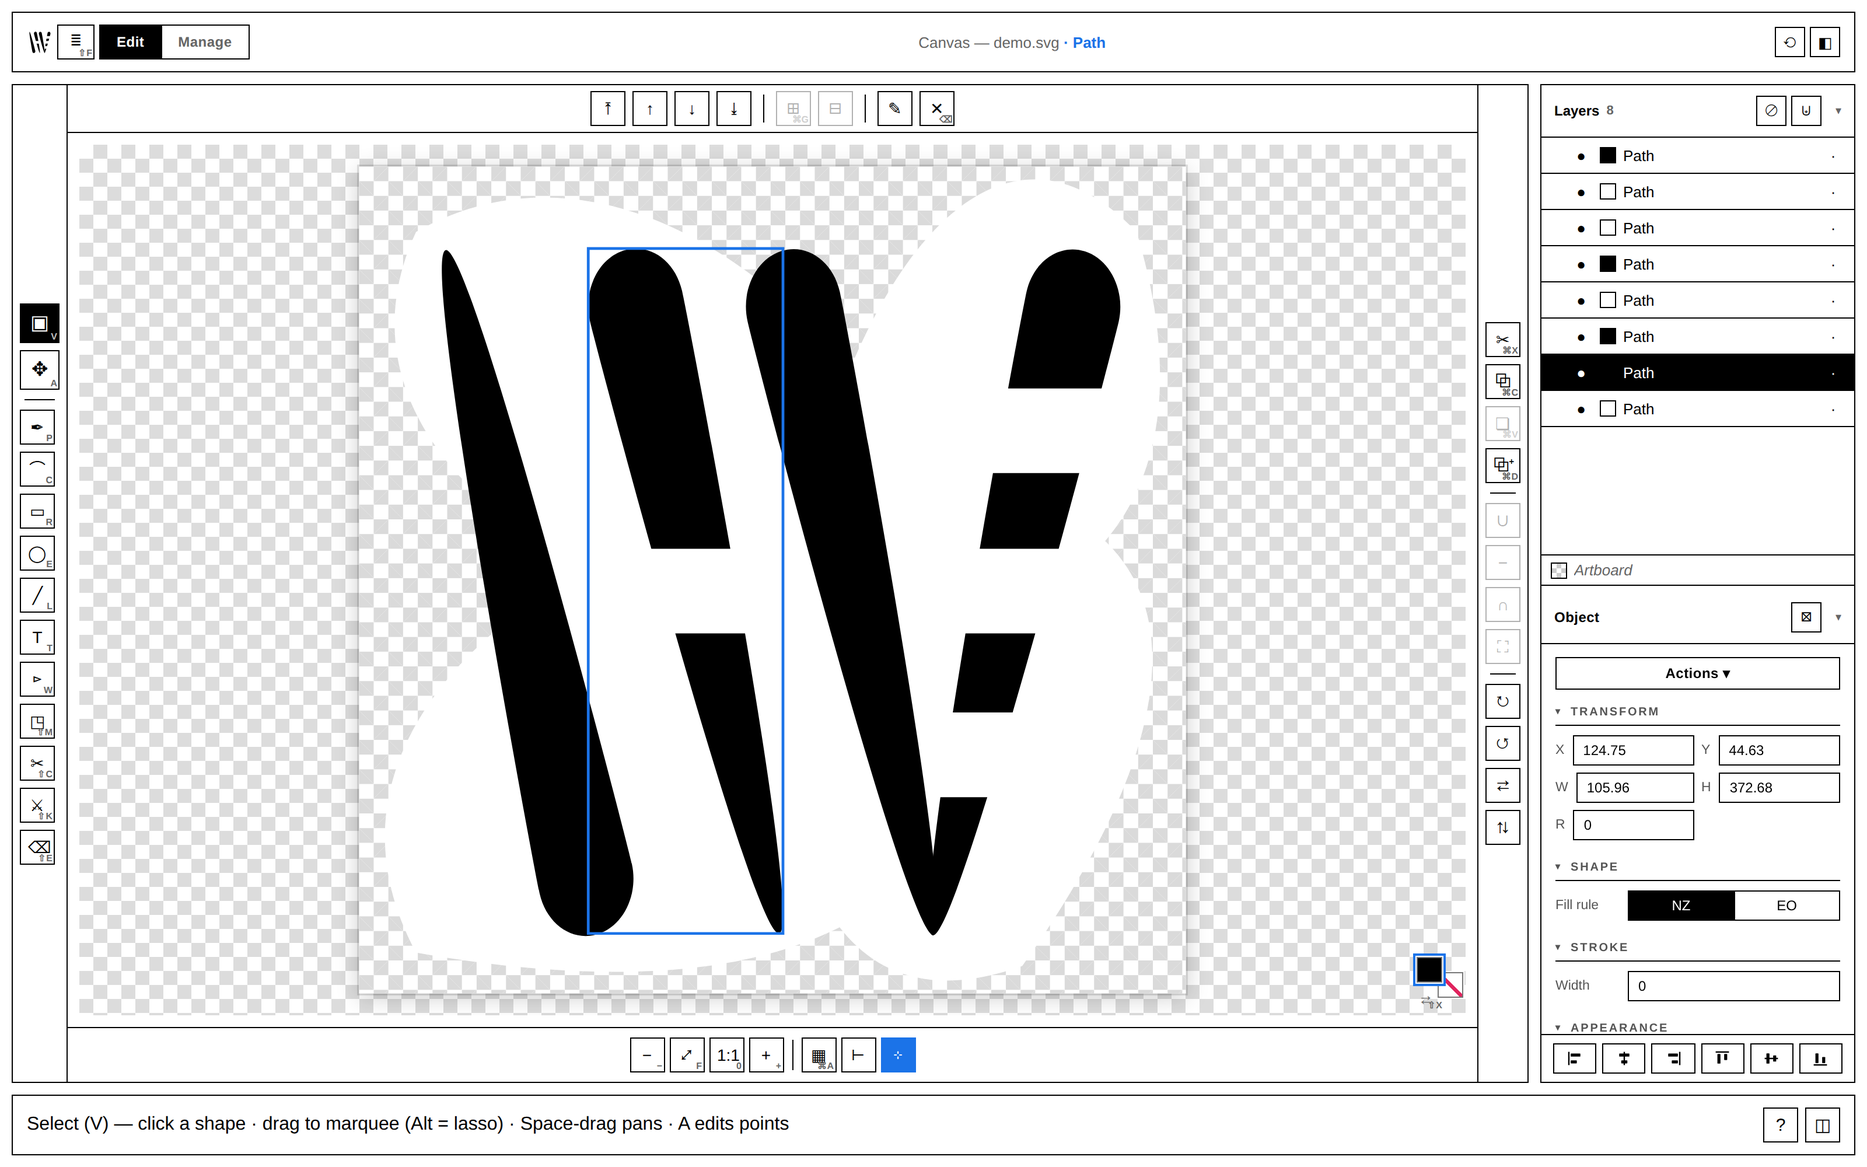
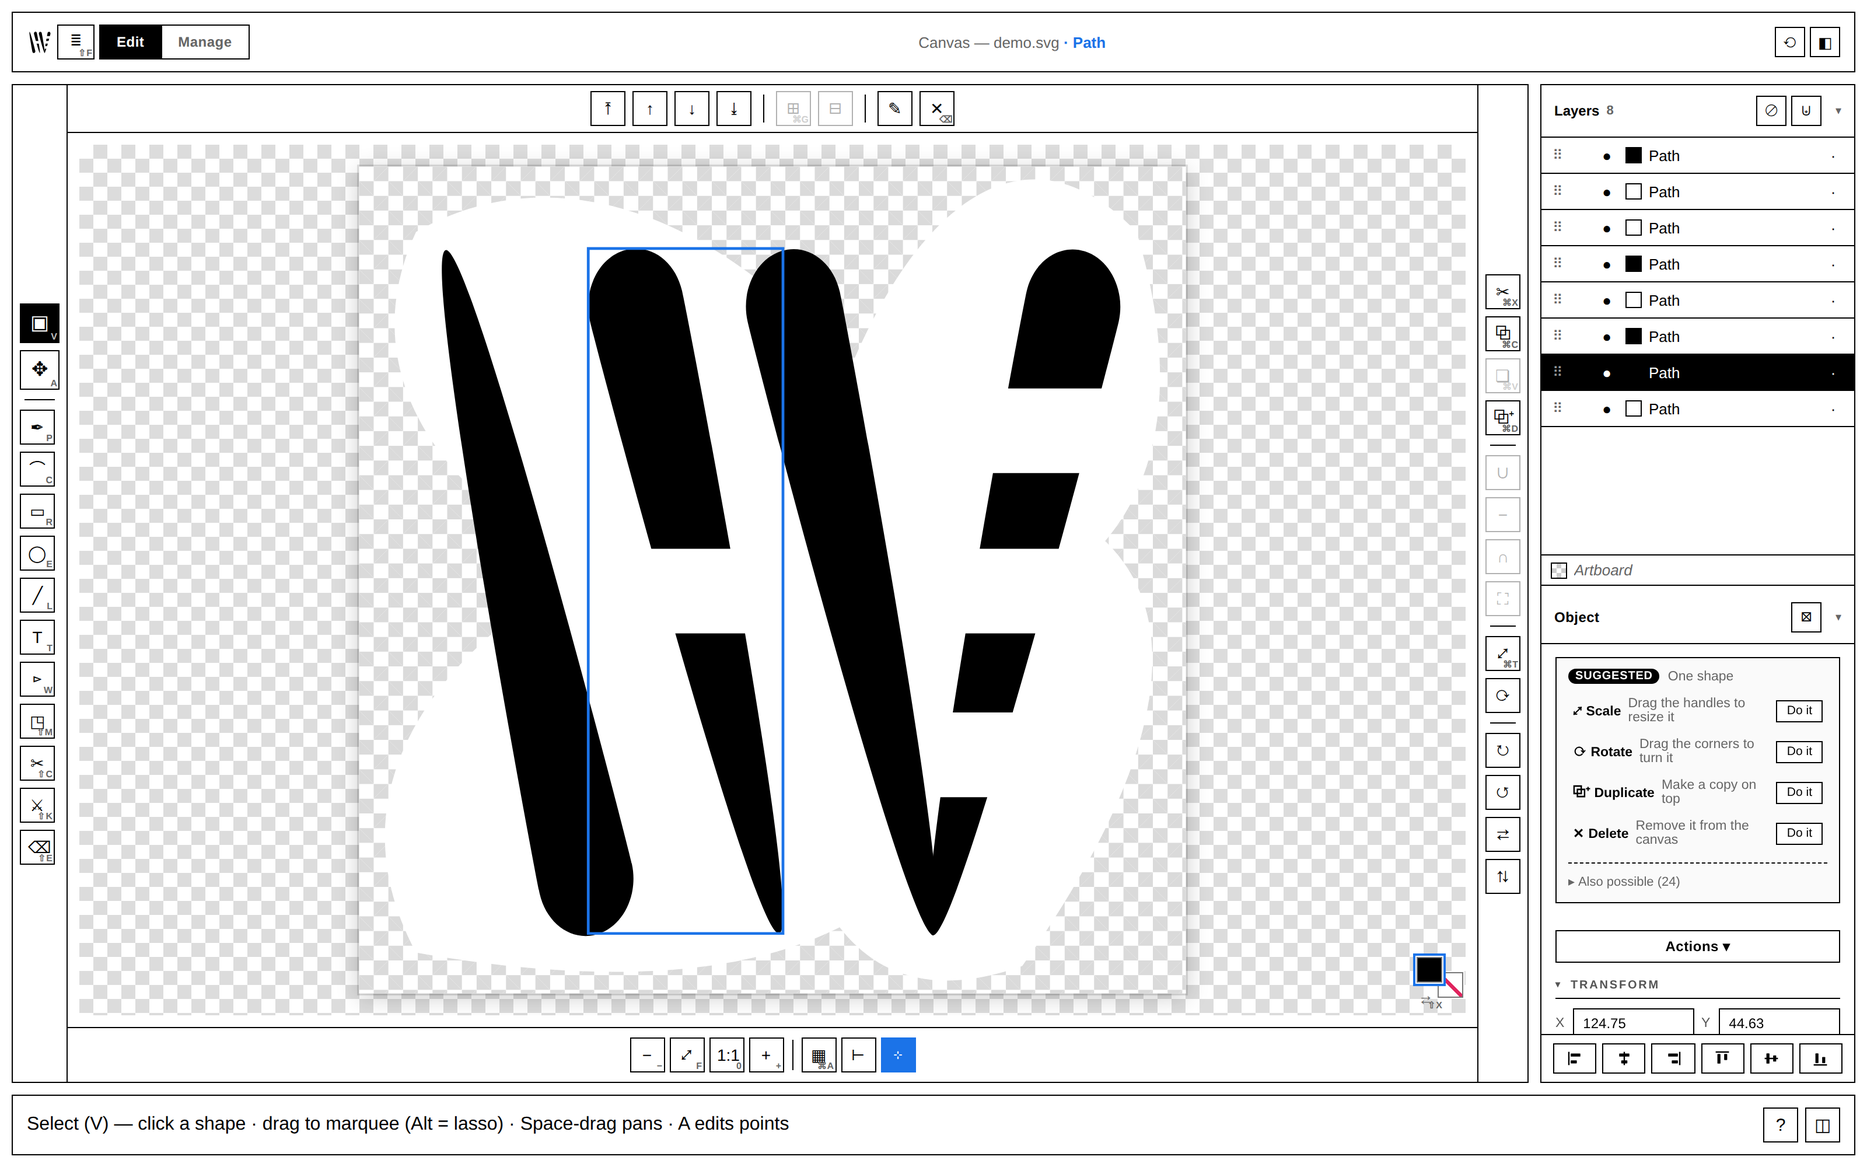
docs: the README never mentioned the thing you can just open in a browser
The project has had a free public build at hector-vector.com for weeks and a
full phone shell for two — and a reader arriving at this repo would have
learned neither. The README opened with `git clone`, which is the *second*
way to run this.

- Lead with the browser build, and a two-column table for what each build is
  for: the browser gets the editor, the desktop keeps the compute (the same
  split ROADMAP.md argued for; a note there reconciles it with the
  "edge = rejected" section, which is still correct — the cloud build moves
  no compute, it just serves the ~100% client-side editor that was already
  there).
- Document the touch/mobile shell as a feature, not a footnote: bars that
  read your selection, the tabbed sheet, the landscape layout, press-and-hold,
  44px transform targets, finger-draggable customization.
- Three new screenshots, shot through a real emulated phone (is_mobile +
  has_touch is a *context* property — a desktop page resized to 390px is not
  the shell a phone gets, so screenshots.py now opens real phone/landscape
  contexts).
- Architecture: name the cloud gate + the touch modules.
- Fix a lie: `mask_trace_prep.py` was deleted in #17 and the README kept
  citing it.
- .gitignore .mcp.json — agent scaffolding, one `git add -A` from being public.

Claude-Session: https://claude.ai/code/session_01QTPc94zdeV7Z8xt36zyv8m

diff --git a/tests/e2e/screenshots.py b/tests/e2e/screenshots.py
@@ -137,6 +137,49 @@ def cap_panels(page):
     shot(page, "editor-panels.png")
 
 
+def select_a_shape(page):
+    page.evaluate("""() => {
+        const paths = [...editor.stage.querySelectorAll('path[data-hv-id]')];
+        const pick = paths.slice(1)[0] || paths[0];
+        if (!pick) return;
+        editor.selection = new Set([pick.getAttribute('data-hv-id')]);
+        editor.artboardSelected = false;
+        editor._renderSelection(); editor.onInspect();
+    }""")
+    page.wait_for_timeout(250)
+
+
+def open_sheet(page, tab):
+    page.evaluate("() => document.querySelector('#mobile-panels').click()")   # slide the Panels sheet up
+    page.wait_for_function("() => document.querySelector('main.app').classList.contains('sheet-open')")
+    page.wait_for_timeout(450)   # the sheet's slide-in; don't race it
+    page.evaluate(f"() => document.querySelector('.sheet-tab[data-tab-key=\"{tab}\"]').click()")
+    page.wait_for_function(f"() => document.querySelector('.sheet-tab[data-tab-key=\"{tab}\"]')"
+                           ".getAttribute('aria-selected') === 'true'")
+    page.wait_for_timeout(200)
+
+
+def cap_mobile(page):
+    # Sheet CLOSED: the point of the phone shell is that the bar under the canvas already
+    # offers what this selection can do — you shouldn't have to open anything.
+    # (The phone shell is composed by JS off matchMedia, so this needs a real emulated
+    # phone context — coarse pointer + touch — not merely a narrow window.)
+    boot(page); mount(page, HERO_SVG); select_a_shape(page)
+    shot(page, "editor-mobile.png")
+
+
+def cap_mobile_sheet(page):
+    boot(page); mount(page, HERO_SVG); select_a_shape(page)
+    open_sheet(page, "properties")
+    shot(page, "editor-mobile-sheet.png")
+
+
+def cap_mobile_landscape(page):
+    boot(page); mount(page, HERO_SVG); select_a_shape(page)
+    page.wait_for_timeout(250)
+    shot(page, "editor-mobile-landscape.png")
+
+
 def main():
     with sync_playwright() as p:
         browser = p.chromium.launch(headless=True, args=["--no-sandbox"])
@@ -145,6 +188,20 @@ def main():
         cap_processor(page)
         cap_nodes(page)
         cap_panels(page)
+
+        # Phone + landscape: separate contexts, because is_mobile/has_touch is a context
+        # property — a desktop page resized to 390px is NOT the shell a phone gets.
+        phone = browser.new_context(viewport={"width": 390, "height": 800},
+                                    has_touch=True, is_mobile=True, device_scale_factor=2)
+        cap_mobile(phone.new_page())
+        cap_mobile_sheet(phone.new_page())
+        phone.close()
+
+        land = browser.new_context(viewport={"width": 844, "height": 390},
+                                   has_touch=True, is_mobile=True, device_scale_factor=2)
+        cap_mobile_landscape(land.new_page())
+        land.close()
+
         browser.close()
     print("done")
 

diff --git a/README.md b/README.md
@@ -1,12 +1,25 @@
 # hector-vector
 
-**A browser-based SVG vector editor with a raster→vector pipeline folded right in.** Draw and edit vectors, *or* drop in a raster and upscale → cut out → trace it on the same canvas. Self-hosted and local — nothing is uploaded; everything runs on your machine.
+**A real SVG vector editor that runs in your browser — and an AI raster→vector pipeline folded right into the same canvas.** Draw and edit vectors, *or* drop in a raster and upscale → cut out → trace it in place. Nothing is uploaded: the browser build computes everything in the tab, and the desktop build runs everything on your machine.
+
+### → **[hector-vector.com](https://hector-vector.com)** — free, no install, no account. Just open it and draw.
 
 `v1.0.0` · MIT · stdlib Python backend + dependency-free ES-module frontend · no build step
 
 ![The hector-vector editor: the project logo on the canvas with the Layers and Properties panels docked](docs/editor-hero.png)
 
-It began as a batch "image studio" and grew a real editor — and now the canvas is the product. Pen and shape tools, boolean operations, direct node editing, layers, and a dockable-panel workspace; with the upscale / cutout / vectorize pipeline available as a **contextual panel** on any raster you place. It is *not* a Photoshop clone — it does vector editing and a tight set of raster↔vector jobs really well.
+It began as a batch "image studio" and grew a real editor — and now the canvas is the product. Pen and shape tools, boolean operations and Pathfinder, a geometric stroker, gradients, masks, live effects, text on a path, direct node editing, layers, and a dockable-panel workspace. It is *not* a Photoshop clone — it does vector editing and a tight set of raster↔vector jobs really well.
+
+**Two ways to run it, one codebase:**
+
+| | **[hector-vector.com](https://hector-vector.com)** (browser) | **The desktop app** (this repo) |
+|---|---|---|
+| | The complete vector toolset, free | Everything in the browser, plus… |
+| | Zero install · any browser · phone, tablet or laptop | The **AI image pipeline** — upscale, background removal, vectorize, restore |
+| | Open `.svg`, export SVG / PNG | Batch job queue · local Library · `.hv` projects with history |
+| | Nothing leaves the tab | 2000+ fonts, complex scripts, fully offline |
+
+The browser build is the *same editor* — it just can't run a 500 MB PyTorch model in a tab. [Full comparison →](https://hector-vector.com/compare)
 
 > **This README is the project's public status surface.** Jump to **[Features](#features)** for everything it does today and **[Roadmap & status](#roadmap--status)** for what's shipped, in progress, and planned.
 
@@ -15,7 +28,7 @@ It began as a batch "image studio" and grew a real editor — and now the canvas
 - [Screenshots](#screenshots)
 - [Quick start](#quick-start)
 - [Features](#features)
-  - [Canvas & document](#canvas--document) · [Drawing tools](#drawing-tools) · [Path & node editing](#path--node-editing) · [Text & fonts](#text--fonts) · [Object operations](#object-operations) · [Fill, stroke & colour](#fill-stroke--colour) · [Workspace & panels](#workspace--panels) · [Raster→vector pipeline](#rastervector-pipeline) · [Vectorize engines](#vectorize-engines) · [Pixel Art → SVG](#pixel-art--svg) · [Library & export](#library--export) · [Platform](#platform)
+  - [Canvas & document](#canvas--document) · [Drawing tools](#drawing-tools) · [Path & node editing](#path--node-editing) · [Text & fonts](#text--fonts) · [Object operations](#object-operations) · [Fill, stroke & colour](#fill-stroke--colour) · [Workspace & panels](#workspace--panels) · [Touch, phone & tablet](#touch-phone--tablet) · [Raster→vector pipeline](#rastervector-pipeline) · [Vectorize engines](#vectorize-engines) · [Pixel Art → SVG](#pixel-art--svg) · [Library & export](#library--export) · [Platform](#platform)
 - [Keyboard shortcuts](#keyboard-shortcuts)
 - [Requirements](#requirements)
 - [Roadmap & status](#roadmap--status)
@@ -30,7 +43,18 @@ It began as a batch "image studio" and grew a real editor — and now the canvas
 | ![A raster placed on the canvas with the contextual Processor stage strip](docs/editor-processor.png) | ![The node tool editing bézier anchors on a path](docs/editor-nodes.png) | ![Two panels snapped into a floating locking-bezel group over the canvas](docs/editor-panels.png) |
 | The **Processor** appears on a selected raster: Upscale → Remove BG → Vectorize, run to canvas. | Direct anchor/handle editing; dense traces stay editable (the node tool LOD-culls handles). | Panels tear off, snap into bezel-locked groups, or shelve as squares. |
 
+It's the same editor on a phone — not a viewer, not a cut-down "mobile version":
+
+| The bar reads your selection | One pane owns the sheet | Landscape surrounds the canvas |
+|---|---|---|
+| ![The phone shell: canvas with a quick bar above and a contextual action bar below offering Scale, Rotate, Duplicate, Delete](docs/editor-mobile.png) | ![The Panels sheet slid up, showing sideways tabs with the Object pane filling it](docs/editor-mobile-sheet.png) | ![Landscape phone: tools on a left rail, actions on a right rail, chrome and contextual buttons on one top row, canvas in the middle](docs/editor-mobile-landscape.png) |
+| Select something and the bar under the canvas already offers what you can do with it — no digging. | The Panels sheet is a **tab strip**, not a stack: pick one and it takes the whole sheet. | Sideways, the buttons **surround** the canvas — the same language as the desktop. |
+
 ## Quick start
+
+**In the browser — nothing to install:** open **[hector-vector.com](https://hector-vector.com)** and draw. Works on a phone or tablet too.
+
+**On your machine — the full build with the AI pipeline:**
 
 ```bash
 git clone https://github.com/asuramaya/hector-vector
@@ -132,6 +156,18 @@ A fully dockable, panel-based workspace (`window.__docks`):
 - **Lean Properties** — each property group has a **collapsible header** (your open/closed choices are remembered), and one-shot object commands (Expand, Outline stroke, Offset path, Pathfinder, Vary width, Make blend / symbol / pattern fill, Reflect, Repeat) live in a context-gated **Actions ▾** menu at the top of the panel rather than as always-on rows.
 - **Memory** — panels remember their last position/size; fresh floats get an ideal, non-overlapping placement.
 - Right-click a panel header to shelve it; right-click a shelf square for open / float / dock options.
+
+### Touch, phone & tablet
+
+A phone gets its own **shell**, not a shrunken desktop — the same editor, re-laid-out for a thumb. A tablet or a touch laptop gets it too; the shell follows the *pointer*, not the user-agent string.
+
+- **The bar reads your selection.** Select one shape and the bar under the canvas offers Scale / Rotate / Duplicate / Delete; select two overlapping ones and the booleans appear on it. The app already knew what you could do — this is that knowledge, ranked and surfaced, instead of buried in a menu.
+- **The Panels sheet is a tab strip.** Swipe up from the logo FAB and one pane — Suggested, Object, Colour, Layers, History — owns the whole sheet. No scrolling past nine stacked panels to find the one you want.
+- **Landscape is its own layout**, with the buttons *surrounding* the canvas (tools left, actions right, chrome on top) — and its own saved arrangement, so how you set up your phone sideways never disturbs your laptop.
+- **Press and hold** is the right-click a finger never had: hold an object for its Actions menu.
+- **Free transform** without a keyboard — the Scale and Rotate tiles toggle the transform box, whose handles carry invisible 44px touch targets over their 9px visuals.
+- **Rearrange the toolbars with your finger** — drag tiles to reorder, tick tools off to trim the strip. Every bar is customizable by touch (HTML5 drag-and-drop never fires from a finger, so the drag engine is pointer-based throughout).
+- **Pinch to zoom**, drag to pan, and the page itself can't be dragged around underneath you.
 
 ### Raster→vector pipeline
 
@@ -253,6 +289,8 @@ The deep research behind pipeline picks — every category, the OSS SOTA, and th
 - [x] **Multiple artboards** — named artboards with per-frame fit-to-view + cropped SVG export, persisted invisibly in `<metadata>`.
 - [x] **Isolation mode & Symbols** — double-click into a group to edit it in place; reusable `<symbol>`/`<use>` instances with live **edit-master** and **break-link**.
 - [x] **Lean inspector** — collapsible property groups (remembered) and one-shot object commands in a context-gated **Actions** menu (toolbar button **and** object right-click), with the Recolor editor reusing the dock Colour panel.
+- [x] **Free in the browser** — a serverless build of the same editor on **[hector-vector.com](https://hector-vector.com)** (Cloudflare Pages, `./deploy-cloud.sh`): the full vector toolset with no install, no account, and nothing leaving the tab. Server-backed panels (Processor / Library / Jobs) gate behind a "get the desktop app" CTA.
+- [x] **Touch & mobile** — a real phone/tablet shell: selection-aware contextual bars, a tabbed Panels sheet, its own landscape layout, press-and-hold → Actions, touch free-transform with 44px targets, and finger-draggable toolbar customization.
 
 ### In progress / open edges
 
@@ -283,10 +321,11 @@ No build step anywhere — the frontend is hand-written ES modules served as-is.
 - **`src/`** — the dependency-free vanilla-JS frontend:
   - **`src/hv/`** — a pure, side-effect-free library: geometry & path math (`path`, `transform`, `shapes`, `shapegen`), colour (`color`), raster sampling (`raster`), and the marching-squares boolean/contour engine with its shared curve-fit core (`contour`, `fitcurve`).
   - **`src/editor.js`** + **`src/editor/`** — the live-SVG editing core (selection, snapshot undo, layers, boolean ops) plus per-feature **tool mixins** under `src/editor/tools/` (`pen`, `text`, `width`, `builder`, `blend`, `colors`, `masks`, `expand`, `effects`, `repeat`, `isolation`, `symbols`, `artboards`, `viewport`, …) `Object.assign`-ed onto one editor object, and inspector row builders in `src/editor/ui-rows.js`.
-  - **`src/app.js`** + **`src/ui/`** — the app shell and UI modules: the dockable-panels system (`ui/docks`, `window.__docks`), the unified colour picker (`ui/colorpicker`), menus (`ui/menus`), the font browser (`ui/fonts`), the Library, the Manage screen, the Processor pipeline UI, Info, and client-side PNG export.
+  - **`src/app.js`** + **`src/ui/`** — the app shell and UI modules: the dockable-panels system (`ui/docks`, `window.__docks`), the unified colour picker (`ui/colorpicker`), menus (`ui/menus`), the font browser (`ui/fonts`), the Library, the Manage screen, the Processor pipeline UI, Info, and client-side PNG export. The **touch shells** live in `ui/formfactor` (which form factor are we, and what furniture goes where), `ui/actions` (one oracle for "what can you do with this selection", read by both the right-click menu and the contextual bars), `ui/adaptive` (bars that re-rank themselves), `ui/layout` (per-shell saved arrangements) and `ui/pointer-drag` (a pointer-based drag engine, because HTML5 DnD never fires from a finger).
 - **`server.py`** — a single-file backend on Python's stdlib `http.server`, with a threaded job queue and a JSON API (`/api/run/pipeline`, `/api/vectorize/engines`, `/api/raster-ops`, `/api/capabilities`, `/api/plan`, `/api/work-items`, `/api/install/*`, `/api/heartbeat`, …). It's organized around pluggable registries: **vectorize engines** (`clean` / `vtracer` / `pixel`), **raster ops** (`upscale` / `removebg` / restoration), and a **capability registry** (outcome→model routing) — adding a model is a registry entry that surfaces in the UI automatically. A heartbeat watchdog spins the server down when the UI closes. No web framework.
-- **`engine.py`, `mask_trace_prep.py`** — classical mask/cutout image ops.
+- **`engine.py`** — classical mask/cutout image ops.
 - **`tools/`** — worker scripts: `pixelvec.py`, `svg_render.py`, `simplify_svg.py` (vector), `ai_cutout.py` (rembg), `upscale_spandrel.py`, `face_restore.py` + `detect_faces.py` (GFPGAN), `inpaint_lama.py` (object removal), and `analyze.py` (the offline analyzer behind the Auto plan). External binaries/weights land here / in `./.venv` / `~/.u2net` at runtime.
+- **The browser build is the same tree.** There is no separate cloud fork: `index.html` detects the deployed host and flips the app into **cloud mode** — the editor runs untouched, while the three server-backed panels (Processor / Library / Jobs) and the save/open paths swap to client-side equivalents (`src/ui/cloud-*.js`). `./deploy-cloud.sh` selects the runtime static files into `dist/` and ships them to Cloudflare Pages. Nothing is compiled; what you read in `src/` is what runs in production.
 - Vector documents save as **`.hv` projects** under `outputs/canvas/`; pipeline outputs under `outputs/<process>-<timestamp>/`. Your source images live in `inputs/` (or any folder you point the Library at).
 
 Contributions welcome — see [`CONTRIBUTING.md`](CONTRIBUTING.md). The editor has a real-browser E2E suite (`tests/e2e/editor_e2e.py`) and a backend smoke suite (`tests/test_smoke.py`); the README screenshots are regenerated with `tests/e2e/screenshots.py`.

diff --git a/ROADMAP.md b/ROADMAP.md
@@ -234,6 +234,29 @@ to deliver its one differentiated feature. Not worth it — hector-vector stays 
 `sw.js` shell, browser-side PNG export, and the location-agnostic HTTP boundary remain fine
 as-is; nothing here requires undoing them, it just isn't a path to a serverless product.)
 
+### What shipped instead: the browser build (2026-07)
+
+The above still stands, and **[hector-vector.com](https://hector-vector.com) does not contradict
+it** — because it does not move an ounce of compute to the edge. The rejected idea was porting
+the *pipeline* (vtracer, k-means, ESRGAN, rembg) into WASM/ONNX so the cloud could do the AI
+work. That is still rejected, for every reason above.
+
+What we shipped is the part that never needed Python at all. The **vector editor is already
+~100% client-side** — SVG in the DOM, geometry in `src/hv/`, PNG export on a canvas — so
+serving it from Cloudflare Pages costs *no rewrite*: the same `src/` tree, no build step, no
+second implementation, no parity treadmill. `index.html` detects the deployed host and gates
+the three server-backed panels (Processor / Library / Jobs) behind a "get the desktop app"
+CTA; everything else just runs.
+
+So the split is clean, and it's the one this document argued for all along:
+
+- **The browser** gets the editor, free, with nothing to install and nothing leaving the tab.
+- **The desktop** keeps the compute — because that is where the compute belongs.
+
+The one genuinely edge-shaped ambition, a cloud page driving your *local* GPU, remains blocked
+exactly where the spike left it (Local Network Access). `tests/companion-spike.html` is the
+probe for whether that ever becomes viable.
+
 ## Key references
 
 BiRefNet — github.com/ZhengPeng7/BiRefNet · BEN2 — github.com/PramaLLC/BEN2 · BRIA RMBG-2.0 — huggingface.co/briaai/RMBG-2.0 · rembg — github.com/danielgatis/rembg · InSPyReNet — github.com/plemeri/InSPyReNet · Real-ESRGAN — github.com/xinntao/Real-ESRGAN · DAT — github.com/zhengchen1999/DAT · HAT — github.com/XPixelGroup/HAT · SwinIR — github.com/JingyunLiang/SwinIR · SPAN — github.com/hongyuanyu/SPAN · Real-CUGAN — github.com/bilibili/ailab · AuraSR — github.com/fal-ai/aura-sr · DiffBIR — github.com/XPixelGroup/DiffBIR · SUPIR — github.com/Fanghua-Yu/SUPIR · StableSR — github.com/IceClear/StableSR · Phhofm models — github.com/Phhofm/models · Upscayl — github.com/upscayl/upscayl · spandrel — github.com/chaiNNer-org/spandrel · OpenModelDB — openmodeldb.info · vtracer — github.com/visioncortex/vtracer · potrace — potrace.sourceforge.net · DeepSVG — github.com/alexandre01/deepsvg · GFPGAN — github.com/TencentARC/GFPGAN · CodeFormer — github.com/sczhou/CodeFormer · IOPaint — github.com/Sanster/IOPaint · LaMa — github.com/advimman/lama · MI-GAN — github.com/Picsart-AI-Research/MI-GAN · FBCNN — github.com/jiaxi-jiang/FBCNN · SCUNet — github.com/cszn/SCUNet · NAFNet — github.com/megvii-research/NAFNet · Restormer — github.com/swz30/Restormer · Deep_White_Balance — github.com/mahmoudnafifi/Deep_White_Balance · kmeans-colors — github.com/okaneco/kmeans-colors · img.ly background-removal-js — github.com/imgly/background-removal-js
